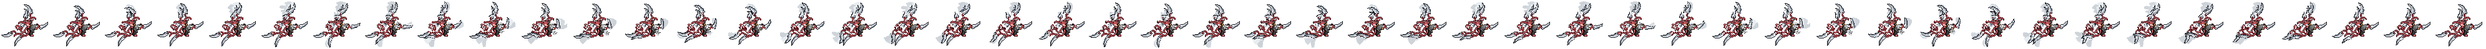
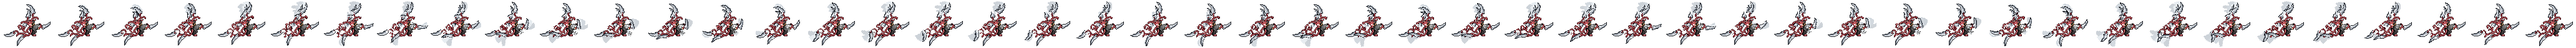
Parasytic ???: Tentakelarme schlackern durchgehend und stärker (zwei Wellen je Arm)
Claude-Session: https://claude.ai/code/session_01S1PZe4tVcCYjm7PV64dCdL

Changed region(s): [[0.0, 0.0513, 1.0, 0.9487], [0.1867, 0.8462, 0.2179, 0.8974], [0.498, 0.8718, 0.5291, 0.8974]]

diff --git a/scripts/hero-animations/parasyte.py b/scripts/hero-animations/parasyte.py
@@ -138,7 +138,9 @@ _rng = np.random.RandomState(11)
 for a in ARMS:                                              # eigene Phase, Frequenz (Perioden pro Loop), Stärke und Richtung je Arm
     L = len(a['path'])
     a['phase'] = float(_rng.uniform(0, 2 * math.pi))
-    a['cycles'] = int(_rng.choice([1, 2, 3], p=[0.35, 0.4, 0.25]))
+    a['cycles'] = int(_rng.choice([2, 3, 4], p=[0.3, 0.4, 0.3]))
+    a['cycles2'] = a['cycles'] + int(_rng.choice([1, 2]))                  # zweite, schnellere Welle: nie ein ruhiger Moment
+    a['phase2'] = float(_rng.uniform(0, 2 * math.pi))
     a['amp'] = float(np.clip(0.14 * L + 1.0, 0.0, 4.2)) if L >= 4 else 0.0
     a['dir'] = 1 if _rng.rand() < 0.5 else -1
 
@@ -184,10 +186,12 @@ def arm_offsets(i):
             base = off[a['fork']]
         L = len(a['path'])
         w = 2 * math.pi * a['cycles'] * i / N
+        w2 = 2 * math.pi * a['cycles2'] * i / N
         for idx, k in enumerate(a['path']):
             u = idx / max(1, L - 1)
             f = u ** 1.15
             wave = math.sin(w - 0.3 * idx + a['phase']) - math.sin(-0.3 * idx + a['phase'])
+            wave += 0.5 * (math.sin(w2 - 0.45 * idx + a['phase2']) - math.sin(-0.45 * idx + a['phase2']))
             tx, ty = SK_TAN[k]
             g = a['amp'] * f * wave * 0.5 * a['dir']
             off[k] = (base[0] - ty * g, base[1] + tx * g)
